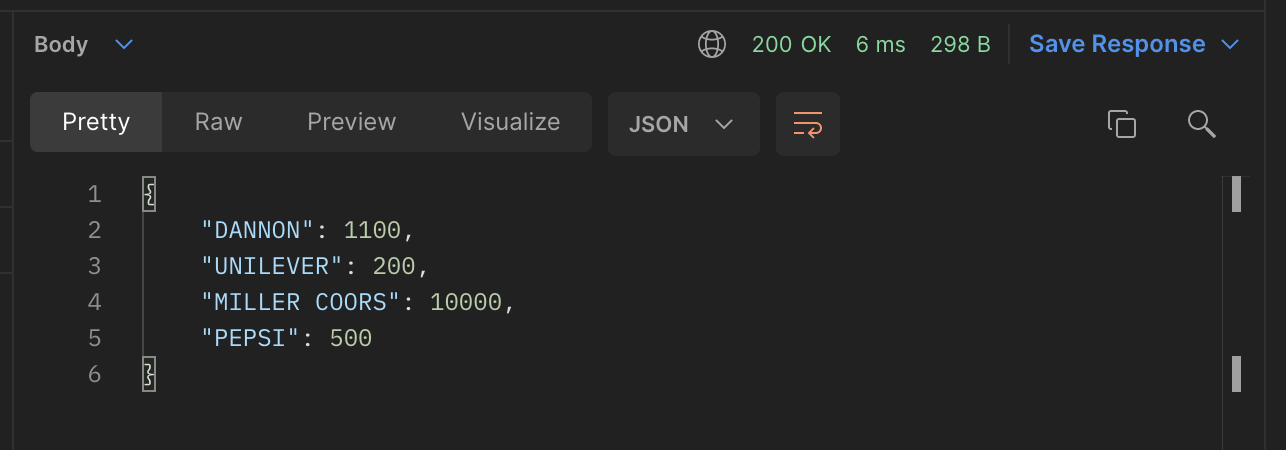
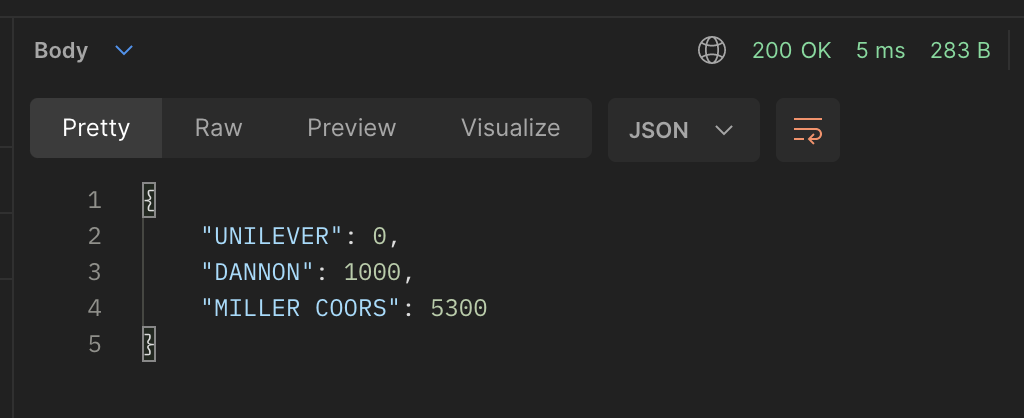
Added a few new screenshots

diff --git a/server.js b/server.js
@@ -14,16 +14,17 @@ let transactions = [];
 let balances = {};
 
 // FUNCTIONS
-const spendPoints = (pointsToSpend, transactions) => {
+const spendPoints = (pointsToSpend) => {
   let pointsRemainingToSpend = pointsToSpend;
   const spentPoints = [];
+  const newTransactions = [];
   const payerIndices = {};
   const payers = [];
 
   // Iterate transactions
   for (let i = 0; i < transactions.length; i++) {
     const transaction = transactions[i];
-    const { payer, points } = transaction;
+    const { payer, points, timestamp } = transaction;
 
     // If we have reached the spend amount, exit the loop
     if (pointsRemainingToSpend === 0) { break; }
@@ -54,7 +55,21 @@ const spendPoints = (pointsToSpend, transactions) => {
         balances[payer] -= pointsSpentThisTransaction;
       }
     }
+    // Add spend transaction to newTransactions array
+    const newTransaction = {
+      payer: payer,
+      points: -pointsSpentThisTransaction,
+      timestamp: timestamp
+    };
+    newTransactions.push(newTransaction);
   }
+
+  // Add spend transactions to transaction array
+  transactions.push(...newTransactions);
+  // Sort transactions array by timestamp, oldest to newest
+  transactions = transactions.sort((transactionA, transactionB) => {
+    return new Date(transactionA.timestamp) - new Date(transactionB.timestamp);
+  });
 
   return spentPoints;
 };
@@ -63,7 +78,7 @@ const spendPoints = (pointsToSpend, transactions) => {
 // POINTS SPEND
 app.get('/points/spend', (req, res) => {
   const { pointsToSpend } = req.query;
-  const spentPoints = spendPoints(pointsToSpend, transactions);
+  const spentPoints = spendPoints(pointsToSpend);
   res.send(spentPoints);
 });
 
